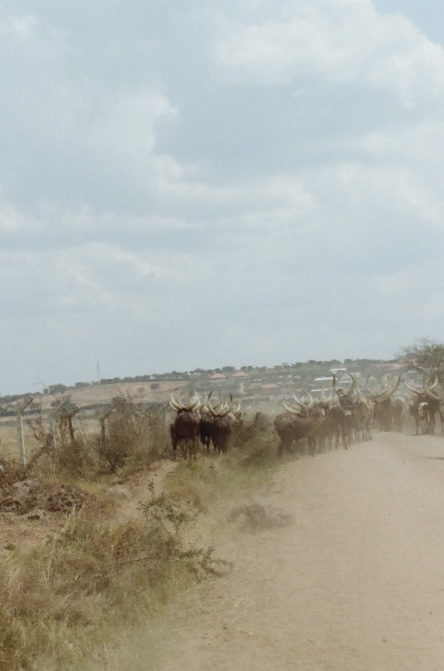
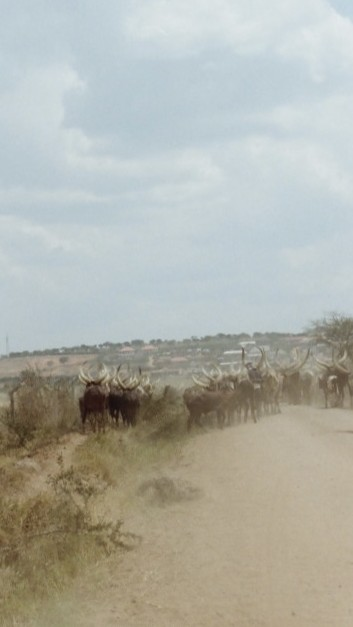
Add BTS section, new summer photos, fashion folder, home about band

diff --git a/photography.html b/photography.html
@@ -224,53 +224,80 @@
       <section class="photo-series" id="summer">
         <div class="series-head">
           <h2>Summer</h2>
-          <p class="series-meta">Nikon D8000 <span class="dot">&middot;</span> 15 photographs</p>
+          <p class="series-meta">Nikon D8000 <span class="dot">&middot;</span> 24 photographs</p>
         </div>
         <div class="gallery">
           <figure class="shot">
-            <img src="images/photography/summer/IMG_7573.jpg" alt="Summer, photograph 1 of 15 by Adi Jahic" width="1334" height="886" loading="lazy" decoding="async">
+            <img src="images/photography/summer/IMG_7573.jpg" alt="Summer, photograph 1 of 24 by Adi Jahic" width="1334" height="886" loading="lazy" decoding="async">
           </figure>
           <figure class="shot">
-            <img src="images/photography/summer/IMG_7567.JPG" alt="Summer, photograph 2 of 15 by Adi Jahic" width="1334" height="886" loading="lazy" decoding="async">
+            <img src="images/photography/summer/IMG_7567.JPG" alt="Summer, photograph 2 of 24 by Adi Jahic" width="1334" height="886" loading="lazy" decoding="async">
           </figure>
           <figure class="shot">
-            <img src="images/photography/summer/IMG_7568.JPG" alt="Summer, photograph 3 of 15 by Adi Jahic" width="1334" height="886" loading="lazy" decoding="async">
+            <img src="images/photography/summer/000539050002.jpg" alt="Summer, photograph 3 of 24 by Adi Jahic" width="1610" height="2429" loading="lazy" decoding="async">
           </figure>
           <figure class="shot">
-            <img src="images/photography/summer/IMG_7556.JPG" alt="Summer, photograph 4 of 15 by Adi Jahic" width="1334" height="886" loading="lazy" decoding="async">
+            <img src="images/photography/summer/IMG_7568.JPG" alt="Summer, photograph 4 of 24 by Adi Jahic" width="1334" height="886" loading="lazy" decoding="async">
           </figure>
           <figure class="shot">
-            <img src="images/photography/summer/IMG_7561.JPG" alt="Summer, photograph 5 of 15 by Adi Jahic" width="1334" height="886" loading="lazy" decoding="async">
+            <img src="images/photography/summer/IMG_7556.JPG" alt="Summer, photograph 5 of 24 by Adi Jahic" width="1334" height="886" loading="lazy" decoding="async">
           </figure>
           <figure class="shot">
-            <img src="images/photography/summer/IMG_7531.jpg" alt="Summer, photograph 6 of 15 by Adi Jahic" width="1247" height="831" loading="lazy" decoding="async">
+            <img src="images/photography/summer/228f4b8fde52cde1f8faf354c1ad1b66.JPEG" alt="Summer, photograph 6 of 24 by Adi Jahic" width="3000" height="2000" loading="lazy" decoding="async">
           </figure>
           <figure class="shot">
-            <img src="images/photography/summer/IMG_7530.jpg" alt="Summer, photograph 7 of 15 by Adi Jahic" width="1334" height="886" loading="lazy" decoding="async">
+            <img src="images/photography/summer/IMG_7531.jpg" alt="Summer, photograph 7 of 24 by Adi Jahic" width="1247" height="831" loading="lazy" decoding="async">
           </figure>
           <figure class="shot">
-            <img src="images/photography/summer/IMG_7529.jpg" alt="Summer, photograph 8 of 15 by Adi Jahic" width="1249" height="833" loading="lazy" decoding="async">
+            <img src="images/photography/summer/IMG_7530.jpg" alt="Summer, photograph 8 of 24 by Adi Jahic" width="1334" height="886" loading="lazy" decoding="async">
           </figure>
           <figure class="shot">
-            <img src="images/photography/summer/IMG_7532.jpg" alt="Summer, photograph 9 of 15 by Adi Jahic" width="1059" height="706" loading="lazy" decoding="async">
+            <img src="images/photography/summer/IMG_7554.JPG" alt="Summer, photograph 9 of 24 by Adi Jahic" width="1334" height="886" loading="lazy" decoding="async">
           </figure>
           <figure class="shot">
-            <img src="images/photography/summer/IMG_7517.JPG" alt="Summer, photograph 10 of 15 by Adi Jahic" width="1334" height="886" loading="lazy" decoding="async">
+            <img src="images/photography/summer/IMG_7529.jpg" alt="Summer, photograph 10 of 24 by Adi Jahic" width="1249" height="833" loading="lazy" decoding="async">
           </figure>
           <figure class="shot">
-            <img src="images/photography/summer/IMG_7518.JPG" alt="Summer, photograph 11 of 15 by Adi Jahic" width="1334" height="886" loading="lazy" decoding="async">
+            <img src="images/photography/summer/48941957384115cb8852317b77265d0d.JPEG" alt="Summer, photograph 11 of 24 by Adi Jahic" width="1831" height="2746" loading="lazy" decoding="async">
           </figure>
           <figure class="shot">
-            <img src="images/photography/summer/IMG_7508.JPG" alt="Summer, photograph 12 of 15 by Adi Jahic" width="1334" height="886" loading="lazy" decoding="async">
+            <img src="images/photography/summer/IMG_7532.jpg" alt="Summer, photograph 12 of 24 by Adi Jahic" width="1059" height="706" loading="lazy" decoding="async">
           </figure>
           <figure class="shot">
-            <img src="images/photography/summer/IMG_7509.JPG" alt="Summer, photograph 13 of 15 by Adi Jahic" width="1334" height="886" loading="lazy" decoding="async">
+            <img src="images/photography/summer/85f8ac69e4bcd56ac589cce08d3205f7.JPEG" alt="Summer, photograph 13 of 24 by Adi Jahic" width="3000" height="2000" loading="lazy" decoding="async">
           </figure>
           <figure class="shot">
-            <img src="images/photography/summer/IMG_7514.JPG" alt="Summer, photograph 14 of 15 by Adi Jahic" width="1334" height="886" loading="lazy" decoding="async">
+            <img src="images/photography/summer/IMG_7518.JPG" alt="Summer, photograph 14 of 24 by Adi Jahic" width="1334" height="886" loading="lazy" decoding="async">
           </figure>
           <figure class="shot">
-            <img src="images/photography/summer/IMG_7554.JPG" alt="Summer, photograph 15 of 15 by Adi Jahic" width="1334" height="886" loading="lazy" decoding="async">
+            <img src="images/photography/summer/b534ae817b826e131ffe903e059ab659.JPEG" alt="Summer, photograph 15 of 24 by Adi Jahic" width="1930" height="2896" loading="lazy" decoding="async">
+          </figure>
+          <figure class="shot">
+            <img src="images/photography/summer/IMG_7508.JPG" alt="Summer, photograph 16 of 24 by Adi Jahic" width="1334" height="886" loading="lazy" decoding="async">
+          </figure>
+          <figure class="shot">
+            <img src="images/photography/summer/IMG_7561.JPG" alt="Summer, photograph 17 of 24 by Adi Jahic" width="1334" height="886" loading="lazy" decoding="async">
+          </figure>
+          <figure class="shot">
+            <img src="images/photography/summer/ec0208d80350b5356f18dcd5aad40c6a.JPEG" alt="Summer, photograph 18 of 24 by Adi Jahic" width="3000" height="2000" loading="lazy" decoding="async">
+          </figure>
+          <figure class="shot">
+            <img src="images/photography/summer/IMG_7509.JPG" alt="Summer, photograph 19 of 24 by Adi Jahic" width="1334" height="886" loading="lazy" decoding="async">
+          </figure>
+          <figure class="shot">
+            <img src="images/photography/summer/IMG_6973.jpg" alt="Summer, photograph 20 of 24 by Adi Jahic" width="755" height="1139" loading="lazy" decoding="async">
+          </figure>
+          <figure class="shot">
+            <img src="images/photography/summer/IMG_7514.JPG" alt="Summer, photograph 21 of 24 by Adi Jahic" width="1334" height="886" loading="lazy" decoding="async">
+          </figure>
+          <figure class="shot">
+            <img src="images/photography/summer/IMG_6981.jpg" alt="Summer, photograph 22 of 24 by Adi Jahic" width="755" height="1139" loading="lazy" decoding="async">
+          </figure>
+          <figure class="shot">
+            <img src="images/photography/summer/CRUISE.jpg" alt="Summer, photograph 23 of 24 by Adi Jahic" width="1292" height="858" loading="lazy" decoding="async">
+          </figure>
+          <figure class="shot">
+            <img src="images/photography/summer/IMG_7517.JPG" alt="Summer, photograph 24 of 24 by Adi Jahic" width="1334" height="886" loading="lazy" decoding="async">
           </figure>
         </div>
       </section>

diff --git a/css/styles.css b/css/styles.css
@@ -136,6 +136,14 @@ p  { margin: 0 0 1.1em; }
    Home hero — the new feature
    -------------------------------------------------------------------------- */
 
+/* The hero's eyebrow carries "NEW FEATURE" - larger and in the accent so it
+   reads before the title, unlike the quiet eyebrows elsewhere. */
+.hero .eyebrow {
+  font-size: 0.85rem;
+  letter-spacing: 0.2em;
+  color: var(--accent);
+}
+
 .hero {
   border-bottom: 1px solid var(--rule);
   background:
@@ -537,6 +545,56 @@ a.poster:hover { transform: translateY(-3px); box-shadow: 0 4px 8px rgba(0,0,0,0
 }
 
 /* --------------------------------------------------------------------------
+   Home page "who made these" band - one clickable card through to About
+   -------------------------------------------------------------------------- */
+
+.about-band {
+  display: grid;
+  grid-template-columns: 150px minmax(0, 1fr);
+  gap: clamp(20px, 3vw, 34px);
+  align-items: center;
+  color: var(--text);
+  text-decoration: none;
+  border: 1px solid var(--rule);
+  border-radius: 3px;
+  padding: clamp(18px, 2.5vw, 26px);
+  transition: border-color 0.25s ease;
+}
+.about-band:hover { border-color: var(--accent-soft); text-decoration: none; }
+.about-band img {
+  width: 150px;
+  border-radius: 2px;
+  box-shadow: 0 12px 30px rgba(0, 0, 0, 0.45);
+}
+.about-band .eyebrow { margin-bottom: 0.5em; }
+.about-band-name {
+  font-family: var(--serif);
+  font-size: clamp(1.3rem, 2.4vw, 1.7rem);
+  font-weight: 600;
+  margin: 0 0 0.3em;
+}
+.about-band-bio {
+  color: var(--text-muted);
+  font-size: 1rem;
+  max-width: 48ch;
+  margin-bottom: 0.9em;
+}
+.about-band-more {
+  font-family: var(--sans);
+  font-size: 0.76rem;
+  letter-spacing: 0.12em;
+  text-transform: uppercase;
+  color: var(--accent);
+  margin: 0;
+}
+.about-band:hover .about-band-more { color: var(--text); }
+
+@media (max-width: 600px) {
+  .about-band { grid-template-columns: 96px minmax(0, 1fr); gap: 18px; align-items: start; }
+  .about-band img { width: 96px; }
+}
+
+/* --------------------------------------------------------------------------
    Footer
    -------------------------------------------------------------------------- */
 
@@ -563,6 +621,16 @@ a.poster:hover { transform: translateY(-3px); box-shadow: 0 4px 8px rgba(0,0,0,0
 /* --------------------------------------------------------------------------
    Responsive
    -------------------------------------------------------------------------- */
+
+/* Two posters per row on phones instead of one full-width one */
+@media (max-width: 600px) {
+  .film-grid {
+    grid-template-columns: repeat(2, minmax(0, 1fr));
+    gap: 18px;
+  }
+  .film-card-title { font-size: 0.95rem; }
+  .film-card-logline { font-size: 0.85rem; }
+}
 
 @media (max-width: 860px) {
   body { font-size: 17px; }

diff --git a/films/yesterday-nothing-in-my-life-changed.html b/films/yesterday-nothing-in-my-life-changed.html
@@ -115,6 +115,20 @@
     </div>
   </section>
 
+
+  <!-- ======================= BEHIND THE SCENES ======================= -->
+  <section class="section">
+    <div class="wrap">
+      <div class="section-head">
+        <p class="eyebrow">Behind the scenes</p>
+      </div>
+      <ul class="stills">
+        <li><img src="../images/bts/00085_29A.JPG" alt="Behind the scenes on Yesterday, Nothing In My Life Changed" width="2397" height="1600" loading="lazy" decoding="async"></li>
+        <li><img src="../images/bts/00089_25A.JPG" alt="Behind the scenes on Yesterday, Nothing In My Life Changed" width="2397" height="1600" loading="lazy" decoding="async"></li>
+        <li><img src="../images/bts/00106_8A.JPG" alt="Behind the scenes on Yesterday, Nothing In My Life Changed" width="2397" height="1600" loading="lazy" decoding="async"></li>
+      </ul>
+    </div>
+  </section>
 </main>
 
 <footer class="site-footer">

diff --git a/index.html b/index.html
@@ -109,6 +109,22 @@
     </div>
   </section>
 
+
+  <!-- ======================= WHO MADE THESE ======================= -->
+  <section class="section">
+    <div class="wrap">
+      <a class="about-band" href="about.html">
+        <img src="images/me.JPEG" alt="Adi Jahić" width="1024" height="1545">
+        <div class="about-band-text">
+          <p class="eyebrow">Filmmaker</p>
+          <p class="about-band-name">Adi Jahić</p>
+          <p class="about-band-bio">Bosnian-American, micro-budget independent filmmaker based in
+            Providence and Los Angeles.</p>
+          <p class="about-band-more">About <span aria-hidden="true">&rarr;</span></p>
+        </div>
+      </a>
+    </div>
+  </section>
 </main>
 
 <!-- ======================= FOOTER ======================= -->

diff --git a/about.html b/about.html
@@ -40,7 +40,7 @@
   <section class="section">
     <div class="wrap">
       <div class="about-grid">
-        <img class="portrait" src="images/adi-jahic-4.webp" alt="Adi Jahić" width="200" height="250">
+        <img class="portrait" src="images/me.JPEG" alt="Adi Jahić" width="1024" height="1545">
         <div>
           <p class="eyebrow">About</p>
           <h1>Adi Jahić</h1>
